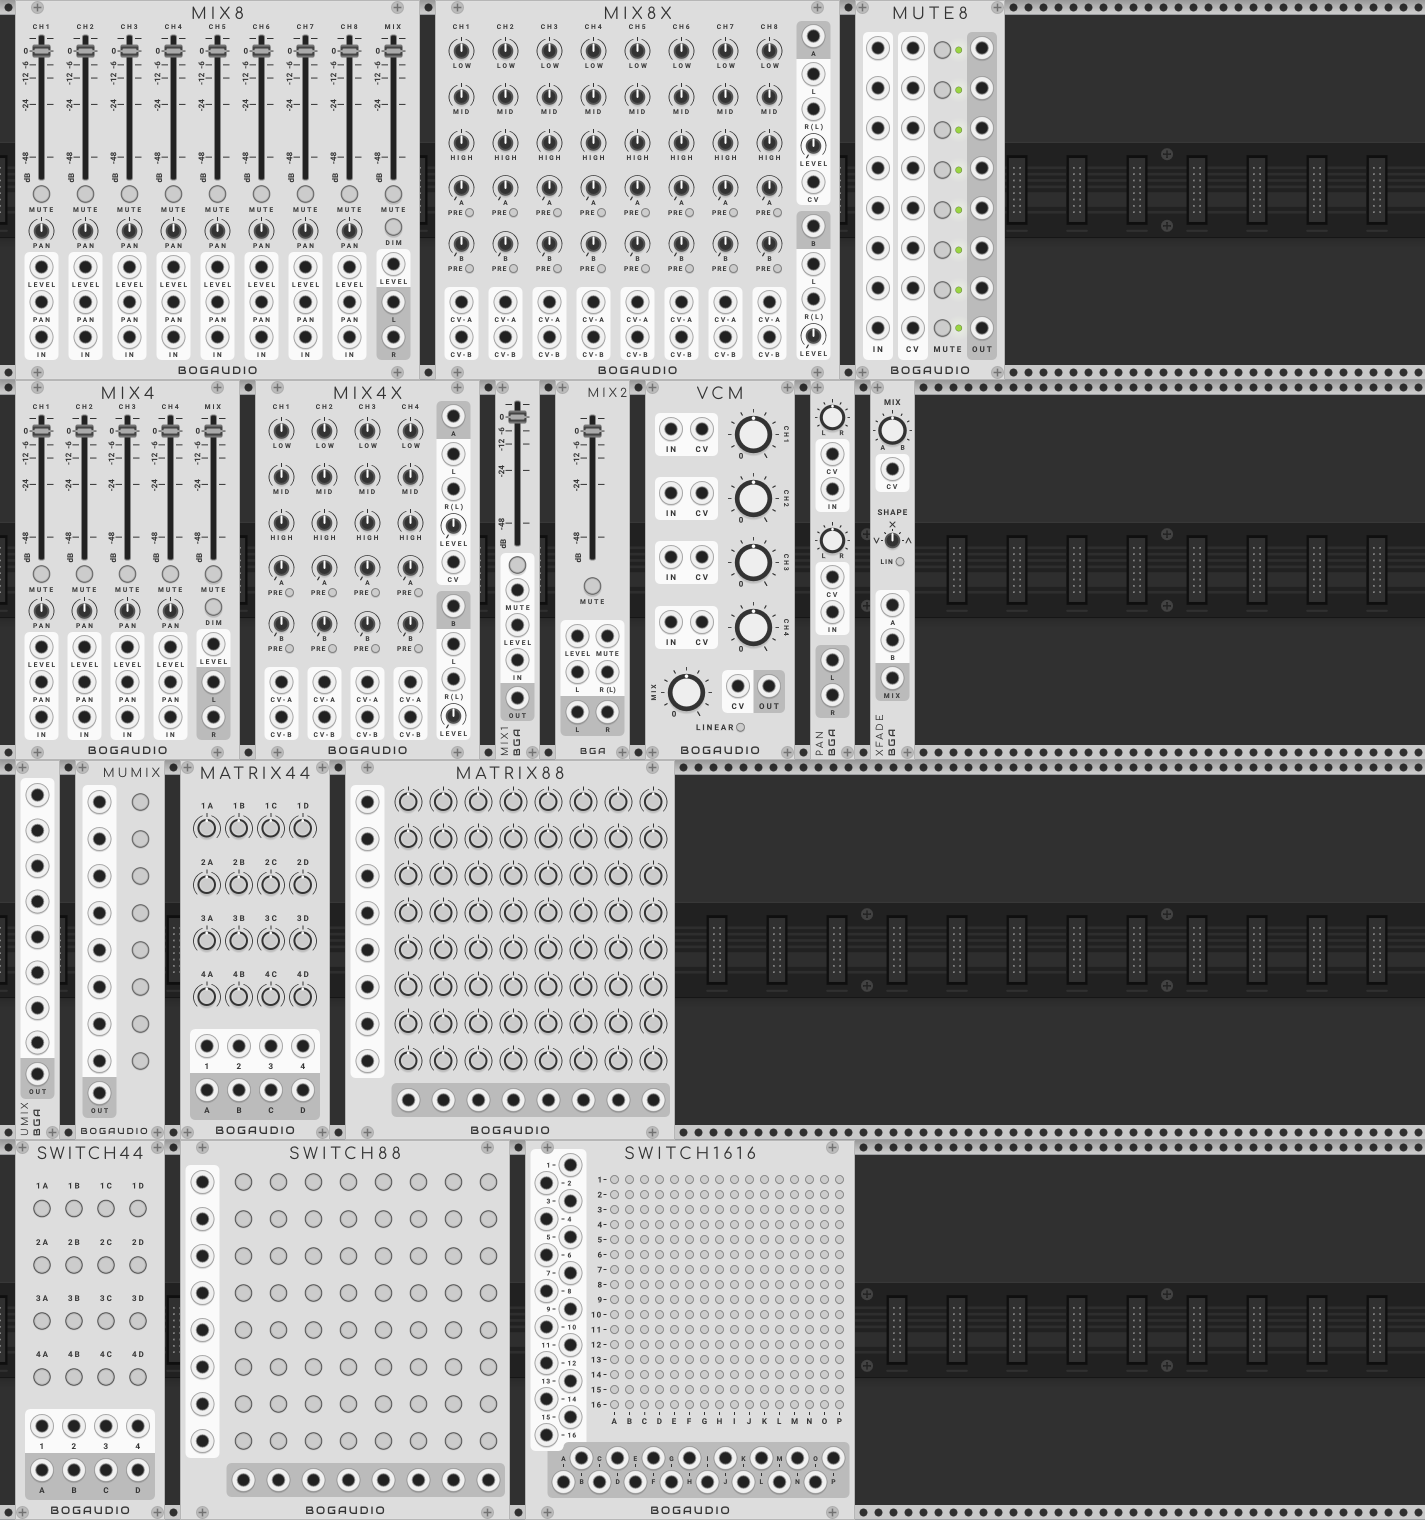
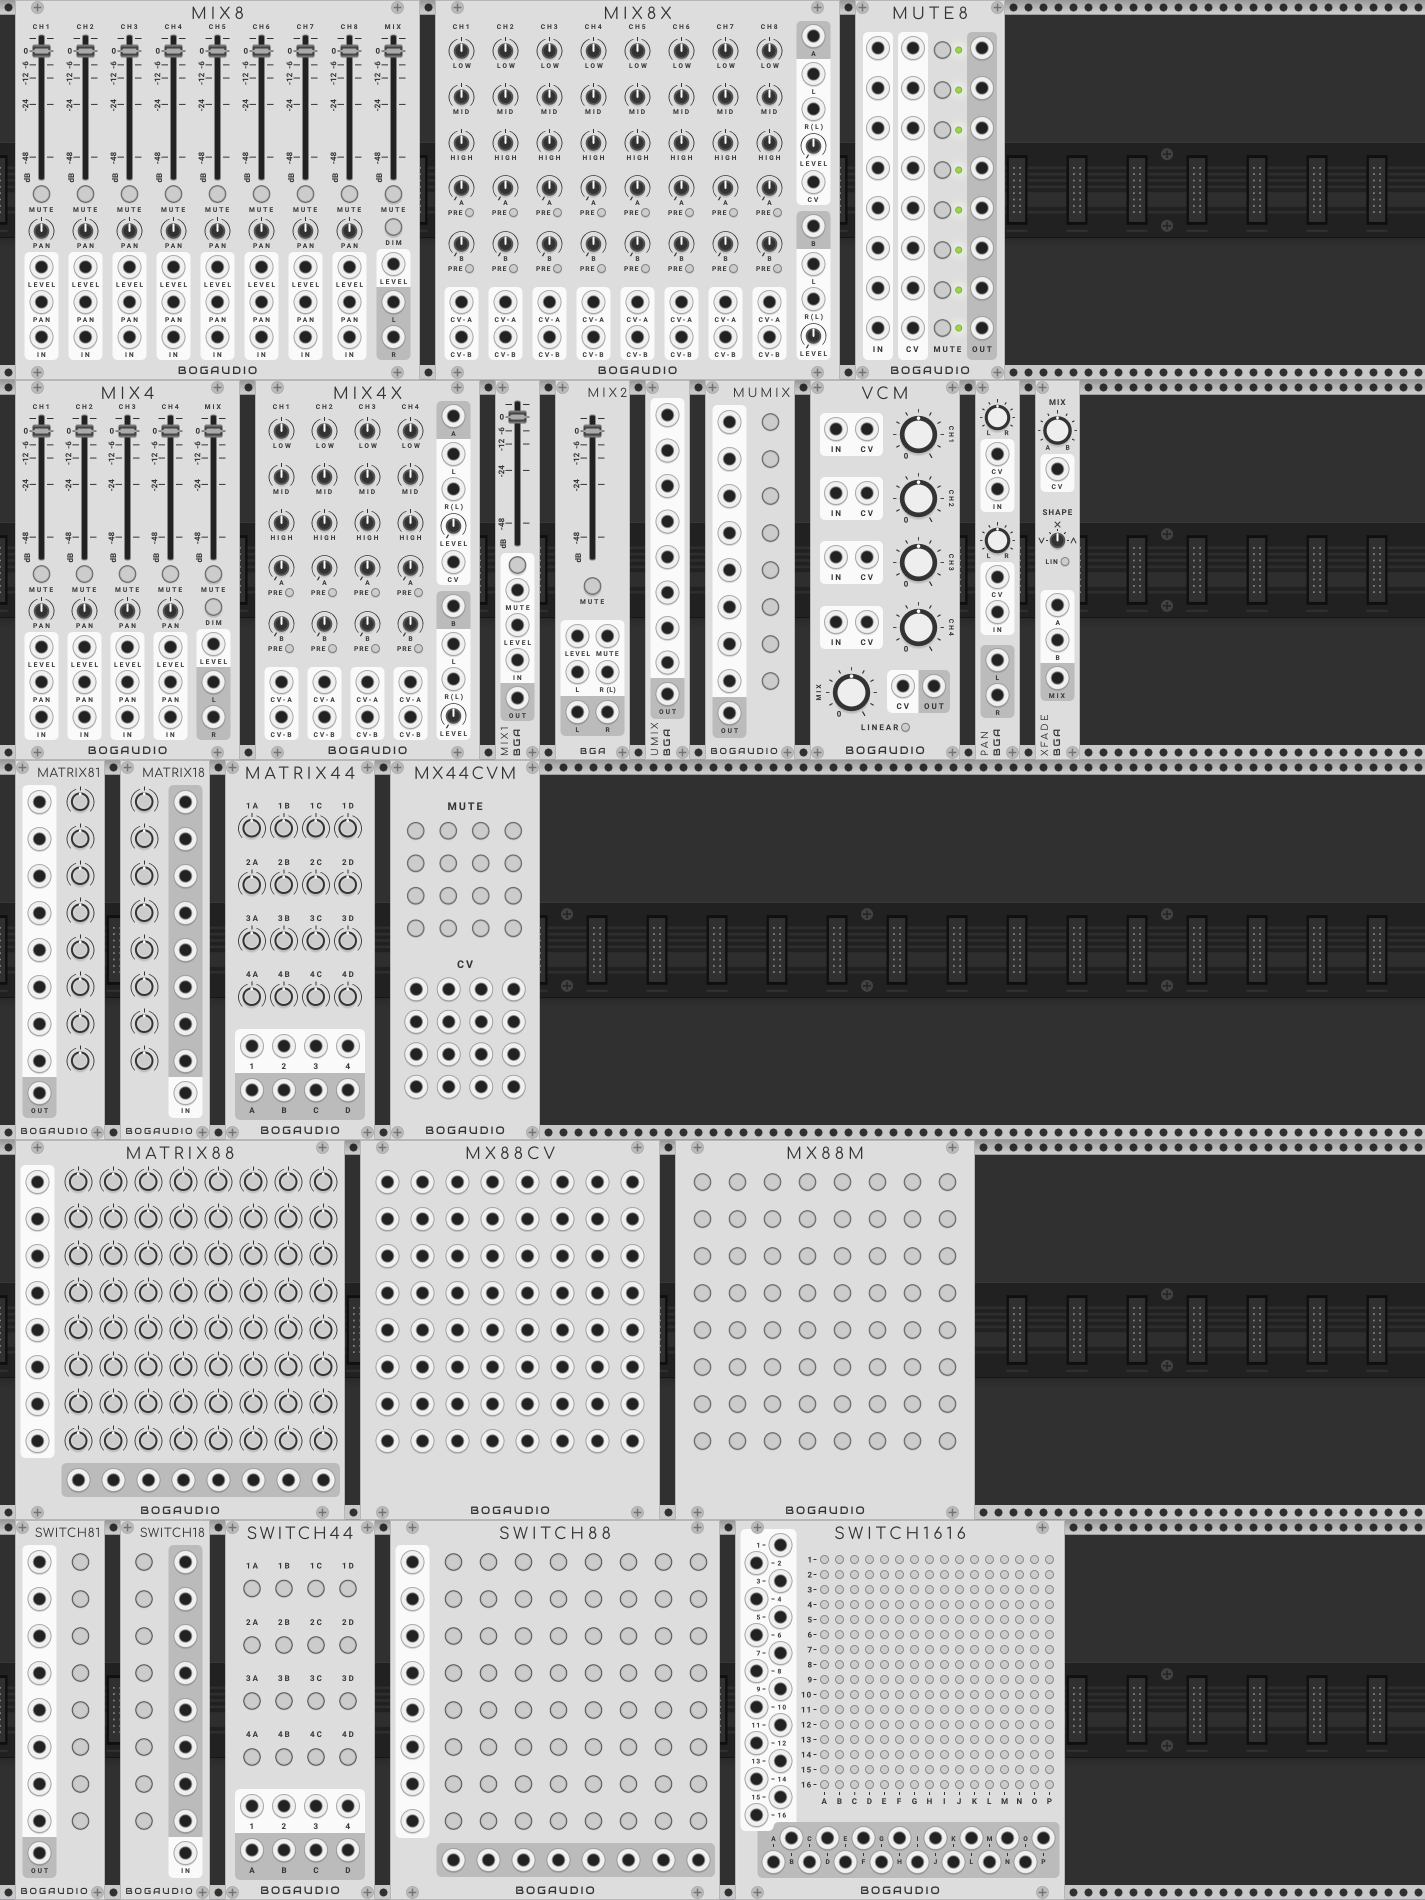
Update screenshots.

diff --git a/scripts/make_screenshots.rb b/scripts/make_screenshots.rb
@@ -9,7 +9,7 @@ screens = [
     file: 'modules1.png',
     crop: false,
     rows: [
-      ['VCO', 'LVCO', 'Sine', 'Pulse', 'XCO', 'Additator', 'FMOp'],
+      ['VCO', 'LVCO', 'Sine', 'Pulse', 'XCO', 'Additator', 'FMOp', 'Chirp'],
       ['LFO', 'LLFO', 'EightFO']
     ]
   },
@@ -17,9 +17,9 @@ screens = [
     file: 'modules2.png',
     crop: false,
     rows: [
-      ['VCF', 'LVCF', 'FFB', 'EQ', 'EQS'],
+      ['VCF', 'LVCF', 'FFB', 'EQ', 'EQS', '-', 'LPG', 'LLPG', 'MegaGate'],
       ['PEQ', 'PEQ6', 'PEQ6XF', 'PEQ14', 'PEQ14XF'],
-      ['DADSRH', 'DADSRHPlus', 'Shaper', 'ShaperPlus', 'AD', 'ASR', 'ADSR', 'Follow', 'DGate', 'RGate', 'Edge']
+      ['DADSRH', 'DADSRHPlus', 'Shaper', 'ShaperPlus', 'AD', 'ASR', 'ADSR', 'Vish', 'DGate', 'RGate', 'Edge', 'Follow']
     ]
   },
   {
@@ -27,18 +27,20 @@ screens = [
     crop: false,
     rows: [
       ['Mix8', 'Mix8x', 'Mute8'],
-      ['Mix4', 'Mix4x', 'Mix1', 'Mix2', 'VCM', 'Pan', 'XFade'],
-      ['UMix', 'Mumix', 'Matrix44', 'Matrix88'],
-      ['Switch44', 'Switch88', 'Switch1616']
+      ['Mix4', 'Mix4x', 'Mix1', 'Mix2', 'UMix', 'Mumix', 'VCM', 'Pan', 'XFade'],
+      ['Matrix81', 'Matrix18', 'Matrix44', 'Matrix44Cvm'],
+      ['Matrix88', 'Matrix88Cv', 'Matrix88M'],
+      ['Switch81', 'Switch18', 'Switch44', 'Switch88', 'Switch1616']
     ]
   },
   {
     file: 'modules4.png',
     crop: false,
     rows: [
-      ['VCA', 'VCAmp', '-', 'AMRM', 'Pressor', 'Lmtr', 'Nsgt', 'CmpDist'],
-      ['Noise', 'SampleHold', 'Walk2', 'Walk', '-', 'EightOne', 'OneEight', 'AddrSeq', 'PGMR', 'PGMRX'],
-      ['VU', 'Analyzer', 'AnalyzerXL']
+      ['VCA', 'VCAmp', 'Velo', '-', 'AMRM', 'Pressor', 'Lmtr', 'Nsgt', 'CmpDist'],
+      ['Noise', 'SampleHold', 'Walk2', 'Walk', '-', 'EightOne', 'OneEight', 'AddrSeq', 'AddrSeqX', 'PGMR', 'PGMRX'],
+      ['VU', 'Analyzer', 'AnalyzerXL'],
+      ['Ranalyzer']
     ]
   },
   {
@@ -82,7 +84,7 @@ screens = [
     file: 'oscillators2.png',
     crop: true,
     rows: [
-      ['Additator', 'FMOp']
+      ['Additator', 'FMOp', 'Chirp']
     ]
   },
   {
@@ -97,6 +99,13 @@ screens = [
     crop: true,
     rows: [
       ['VCF', 'LVCF', 'FFB', 'EQ', 'EQS']
+    ]
+  },
+  {
+    file: 'lpgs.png',
+    crop: true,
+    rows: [
+      ['LPG', 'LLPG', 'MegaGAte']
     ]
   },
   {
@@ -117,14 +126,14 @@ screens = [
     file: 'envelopes2.png',
     crop: true,
     rows: [
-      ['Shaper', 'ShaperPlus', 'AD', 'ASR', 'ADSR', 'Follow']
+      ['Shaper', 'ShaperPlus', 'AD', 'ASR', 'ADSR', 'Vish']
     ]
   },
   {
     file: 'envelopes3.png',
     crop: true,
     rows: [
-      ['DGate', 'RGate', 'Edge']
+      ['DGate', 'RGate', 'Edge', 'Follow']
     ]
   },
   {
@@ -145,28 +154,35 @@ screens = [
     file: 'mixers2.png',
     crop: true,
     rows: [
-      ['Mix1', 'Mix2', 'VCM', 'Mute8', 'Pan', 'XFade']
+      ['Mix1', 'Mix2', 'UMix', 'Mumix', 'Mute8', 'VCM', 'Pan', 'XFade']
     ]
   },
   {
     file: 'mixers3.png',
     crop: true,
     rows: [
-      ['UMix', 'Mumix', 'Matrix44', 'Matrix88']
+      ['Matrix81', 'Matrix18', 'Matrix44', 'Matrix44Cvm']
     ]
   },
   {
     file: 'mixers4.png',
     crop: true,
     rows: [
-      ['Switch44', 'Switch88', 'Switch1616']
+      ['Matrix88', 'Matrix88Cv', 'Matrix88M']
+    ]
+  },
+  {
+    file: 'mixers5.png',
+    crop: true,
+    rows: [
+      ['Switch81', 'Switch18', 'Switch44', 'Switch88', 'Switch1616']
     ]
   },
   {
     file: 'vcas.png',
     crop: true,
     rows: [
-      ['VCA', 'VCAmp']
+      ['VCA', 'VCAmp', 'Velo']
     ]
   },
   {
@@ -180,7 +196,7 @@ screens = [
     file: 'sequencers1.png',
     crop: true,
     rows: [
-      ['EightOne', 'OneEight', 'AddrSeq']
+      ['EightOne', 'OneEight', 'AddrSeq', 'AddrSeqX']
     ]
   },
   {
@@ -194,7 +210,21 @@ screens = [
     file: 'visualizers.png',
     crop: true,
     rows: [
-      ['Analyzer', 'AnalyzerXL', 'VU']
+      ['VU', 'Analyzer']
+    ]
+  },
+  {
+    file: 'visualizers2.png',
+    crop: true,
+    rows: [
+      ['AnalyzerXL']
+    ]
+  },
+  {
+    file: 'visualizers3.png',
+    crop: true,
+    rows: [
+      ['Ranalyzer']
     ]
   },
   {

diff --git a/README-prerelease.md b/README-prerelease.md
@@ -259,6 +259,8 @@ _Polyphony:_ <a href="#polyphony">Polyphonic</a>, with channels defined by the L
 
 #### <a name="lpg"></a> LPG
 
+![Filters screenshot](doc/www/lpgs.png)
+
 LPG is a "low-pass gate", where an envelope generator, low-pass filter (LPF) and amplifier (VCA) are combined into a single sound-shaping unit.  It lends itself to percussive or plucked sounds, though longer notes are possible.
 
 LPG's envelope is a version of <a href="#vish">VISH</a>, with simplified controls.  On LPG, the single RESPONSE control (taking a unipolar 0-10V CV at RESP) sets the length and basic shape of the envelope (turning up RESPONSE is equivalent to turning up each of MIN GATE, RISE time and FALL time, proportionally, on VISH).  Enabling LONG rescales the knob for longer envelopes.  The RISE and FALL knobs set the shapes (curves) of the rising and falling envelope segments, as on VISH.  The envelope is triggered whenever LPG receives a rising edge at the TRIG input.
@@ -439,14 +441,6 @@ If the TIMES 10X option is enabled, the values of the rise and fall times, and M
 
 _Polyphony:_ <a href="#polyphony">Polyphonic</a>, with channels defined by the GATE input.
 
-#### <a name="follow"></a> FOLLOW
-
-An envelope follower (a utility that converts its input to a CV proportional to the level of the input's amplitude).  The DAMP knob and CV (0-10V) affect how quickly the output responds to changes in the input -- higher DAMP values effectively slow down and smooth out the response.
-
-The GAIN knob and CV (+/-5V) can attenuate or amplify the output.  Turning the knob counter-clockwise form center will cut the output up to -36dB; turning it clockwise will amplify it up to +12dB.
-
-_Polyphony:_ <a href="#polyphony">Polyphonic</a>, with channels defined by the IN input.
-
 #### <a name="dgate"></a> DGATE
 
 ![Envelopes screenshot](doc/www/envelopes3.png)
@@ -487,6 +481,15 @@ _Polyphony:_ <a href="#polyphony">Polyphonic</a>, with channels defined by the C
 A trigger-to-gate utility, comparator and rising/falling edge detector.  RISE and FALL set voltage levels: when the input goes above RISE, the module switches to "high" state and outputs a voltage at the HIGH output.  HOLD sets a minimum time that the module stays in the high state; this can be used to avoid jitter on the output if using high-frequency inputs.  1ms trigger pulses are output at RISE and FALL on the corresponding changes (note that if you switch the module state at audio rates, these will essentially always be high).
 
 _Polyphony:_ <a href="#polyphony">Polyphonic</a>, with channels defined by the IN input.
+
+#### <a name="follow"></a> FOLLOW
+
+An envelope follower (a utility that converts its input to a CV proportional to the level of the input's amplitude).  The DAMP knob and CV (0-10V) affect how quickly the output responds to changes in the input -- higher DAMP values effectively slow down and smooth out the response.
+
+The GAIN knob and CV (+/-5V) can attenuate or amplify the output.  Turning the knob counter-clockwise form center will cut the output up to -36dB; turning it clockwise will amplify it up to +12dB.
+
+_Polyphony:_ <a href="#polyphony">Polyphonic</a>, with channels defined by the IN input.
+
 
 ### <a name="mixers"></a> Mixers, Panners and VCAs
 
@@ -550,50 +553,7 @@ A stereo version of MIX1.
 
 _Polyphony:_ <a href="#polyphony">Polyphonic</a>, with channels defined by the L input.
 
-#### <a name="vcm"></a> VCM
-
-A four-channel mixer in 10HP.
-
-Features:
-  - Four input channels and mono mix output with knob and CV control over level.  CVs expect 0-10V; when CV is in use, it is attenuated by the knob.
-  - Linear mode makes the knob/CV response linear in amplitude (this is good dialing in a CV mix); otherwise, and by default, the response is linear in decibels (and therefore exponential in amplitude).
-
-By default, the output is hard clipped at +/-12V (this is a standard in Rack).  A context menu option allows this limit to be disabled.
-
-_Polyphony:_ <a href="#polyphony">Polyphonic</a>, with polyphonic channels defined by the first IN input.
-
-#### <a name="mute8"></a> MUTE8
-
-MUTE8 provides 8 independent manual or CV-controlled mutes. Each channel is muted if its button is toggled on or if there is a positive voltage at its CV input.  Otherwise the input is passed to the output.
-
-As with MIX4 and MIX8, a right-click on a mute button will solo that channel (pass that channel through while muting all others).  Right or left click clears this.
-
-If context menu option "Latching CV triggers" is enabled, triggers on the CV inputs toggle muting on and off.
-
-_Polyphony:_ <a href="#polyphony">Polyphonic</a>, where each of the 8 channels may be independently polyphonic, as defined by the cable at the channel's input.
-
-#### <a name="pan"></a> PAN
-
-A stereo panner with dual inputs channels.  Each channel's panner may be controlled with a +/-5 volt CV; when CV is in use, it is attenuverted the corresponding knob.  The output saturates (soft clips) to +/-12 volts.
-
-_Polyphony:_ <a href="#polyphony">Polyphonic</a>, with polyphony defined by the first/top IN input.
-
-#### <a name="xfade"></a> XFADE
-
-A crossfader (or two-channel mixer, or way to patch a dry/wet knob into any signal chain).  The MIX knob sets the relative strength of inputs A and B.  MIX may be controlled with a +/-5 volt CV; when CV is in use, it is attenuverted the knob.
-
-The SHAPE knob affects the attenuation curves of the two channels as MIX changes:
-  - At the center position, SHAPE at produces a standard crossfader behavior.  A and B are attenuated by half; moving MIX to A or B brings that channel to full input level while cutting the opposite channel.  The attenuation is such that if the same signal is patched to both A and B, the same signal is produced at the output regardless of the setting of MIX.
-  - With SHAPE at the full counter-clockwise (left) position, there is no output when MIX is centered; moving MIX to A or B brings that channel to full level.
-  - With SHAPE at full clockwise (right) position, both channels are at full (unattenuated) level when MIX is centered; moving to A or B cuts the opposite channel.
-
-Linear mode (the LIN button) makes the level attenuation response of MIX linear in amplitude (useful when processing CV); otherwise and by default the response is linear in decibels (and therefore exponential in amplitude).
-
-_Polyphony:_ <a href="#polyphony">Polyphonic</a>, with polyphony defined by the A input.
-
 #### <a name="umix"></a> UMIX
-
-![Mixers screenshot](doc/www/mixers3.png)
 
 A 3HP unity mixer, usable with audio or CV (e.g. to combine triggers).  Up to 8 inputs are summed to the output.  The output is limited to +/-12V (with clipping modes as below).
 
@@ -614,7 +574,50 @@ See also <a href="switch81">SWITCH81</a>, which is similar to this, with options
 
 _Polyphony:_ same as UMIX.
 
+#### <a name="mute8"></a> MUTE8
+
+MUTE8 provides 8 independent manual or CV-controlled mutes. Each channel is muted if its button is toggled on or if there is a positive voltage at its CV input.  Otherwise the input is passed to the output.
+
+As with MIX4 and MIX8, a right-click on a mute button will solo that channel (pass that channel through while muting all others).  Right or left click clears this.
+
+If context menu option "Latching CV triggers" is enabled, triggers on the CV inputs toggle muting on and off.
+
+_Polyphony:_ <a href="#polyphony">Polyphonic</a>, where each of the 8 channels may be independently polyphonic, as defined by the cable at the channel's input.
+
+#### <a name="vcm"></a> VCM
+
+A four-channel mixer in 10HP.
+
+Features:
+  - Four input channels and mono mix output with knob and CV control over level.  CVs expect 0-10V; when CV is in use, it is attenuated by the knob.
+  - Linear mode makes the knob/CV response linear in amplitude (this is good dialing in a CV mix); otherwise, and by default, the response is linear in decibels (and therefore exponential in amplitude).
+
+By default, the output is hard clipped at +/-12V (this is a standard in Rack).  A context menu option allows this limit to be disabled.
+
+_Polyphony:_ <a href="#polyphony">Polyphonic</a>, with polyphonic channels defined by the first IN input.
+
+#### <a name="pan"></a> PAN
+
+A stereo panner with dual inputs channels.  Each channel's panner may be controlled with a +/-5 volt CV; when CV is in use, it is attenuverted the corresponding knob.  The output saturates (soft clips) to +/-12 volts.
+
+_Polyphony:_ <a href="#polyphony">Polyphonic</a>, with polyphony defined by the first/top IN input.
+
+#### <a name="xfade"></a> XFADE
+
+A crossfader (or two-channel mixer, or way to patch a dry/wet knob into any signal chain).  The MIX knob sets the relative strength of inputs A and B.  MIX may be controlled with a +/-5 volt CV; when CV is in use, it is attenuverted the knob.
+
+The SHAPE knob affects the attenuation curves of the two channels as MIX changes:
+  - At the center position, SHAPE at produces a standard crossfader behavior.  A and B are attenuated by half; moving MIX to A or B brings that channel to full input level while cutting the opposite channel.  The attenuation is such that if the same signal is patched to both A and B, the same signal is produced at the output regardless of the setting of MIX.
+  - With SHAPE at the full counter-clockwise (left) position, there is no output when MIX is centered; moving MIX to A or B brings that channel to full level.
+  - With SHAPE at full clockwise (right) position, both channels are at full (unattenuated) level when MIX is centered; moving to A or B cuts the opposite channel.
+
+Linear mode (the LIN button) makes the level attenuation response of MIX linear in amplitude (useful when processing CV); otherwise and by default the response is linear in decibels (and therefore exponential in amplitude).
+
+_Polyphony:_ <a href="#polyphony">Polyphonic</a>, with polyphony defined by the A input.
+
 #### <a name="matrix81"></a> MATRIX81
+
+![Mixers screenshot](doc/www/mixers3.png)
 
 An eight input, one output version of <a href="#matrix44">MATRIX44</a>, below.
 
@@ -652,6 +655,8 @@ MX44CVM must be positioned to the right of, and adjacent to, the MATRIX44 module
 
 #### <a name="matrix88"></a> MATRIX88
 
+![Mixers screenshot](doc/www/mixers4.png)
+
 An 8x8 version of MATRIX44.  It is expanable with <a href="matrix88cv">MX88CV</a> and <a href="matrix88m">MX88M</a>.
 
 _Polyphony:_ <a href="#polyphony">Polyphonic</a>, with polyphonic channels defined by the first/topmost input.
@@ -672,7 +677,7 @@ MX88M must be positioned to the right of, and adjacent to, the MATRIX88 module i
 
 #### <a name="switch81"></a> SWITCH81
 
-![Mixers screenshot](doc/www/mixers4.png)
+![Mixers screenshot](doc/www/mixers5.png)
 
 An eight input, one output version of <a href="#switch44">SWITCH44</a>, below.
 
@@ -978,6 +983,12 @@ Each PGMRX in a chain must be positioned to the right of, and ajacent to, the pr
 
 ![Analyzer screenshot](doc/www/visualizers.png)
 
+#### <a name="vu"></a> VU
+
+A stereo signal level visualizer/meter.  The L channel is sent to both displays if if nothing is patched to R.  Inputs to L and R are copied to the L and R outputs.
+
+_Polyphony:_ Monophonic, but if an input is polyphonic, its channels are summed, and summed value is used to compute the level displayed (independently for the left and right inputs).
+
 #### <a name="analyzer"></a> ANALYZER
 
 A four-channel spectrum analyzer.
@@ -1002,6 +1013,8 @@ _Polyphony:_ Monophonic, with two exceptions:
 
 #### <a name="analyzerxl"></a> ANALYZER-XL
 
+![Analyzer screenshot](doc/www/visualizers2.png)
+
 An eight-channel, 42HP version of ANALYZER, with edge-to-edge-screen design.  Options corresponding to ANALYZER's panel controls are available on the context (right-click) menu.  An extra "Quality" setting, "Ultra+" is available; this uses an FFT size of 16384 (or 32768 if Rack's sample rate is 96khz or higher).
 
 **Note:** Most of the surface of ANALYZER-XL is its display, and clicking the mouse on the display will trigger the freeze function described in the notes on <a href="analyzer">ANALYZER</a>.  This may be confusing if you're trying to click and drag on the module to move it.  To move the module, click near the left edge, for example on the module's name.
@@ -1009,6 +1022,8 @@ An eight-channel, 42HP version of ANALYZER, with edge-to-edge-screen design.  Op
 _Polyphony:_ Monophonic, but if an input is polyphonic, its channels are summed, and the spectra of the summed signal is displayed.
 
 #### <a name="ranalyzer"></a> RANALYZER
+
+![Analyzer screenshot](doc/www/visualizers3.png)
 
 RANALYZER is a frequency response analyzer: it passes a test signal to another module, expecting the output of that module to be patched back, and then displays the frequency spectrum of the response relative to the test signal.
 
@@ -1033,12 +1048,6 @@ The display's frequency and amplitude ranges and plot types (logarithmic vs line
 **Note:** Most of the surface of RANALYZER is its display, and clicking the mouse on the display will trigger the freeze function described in the notes on <a href="analyzer">ANALYZER</a>.  This may be confusing if you're trying to click and drag on the module to move it.  To move the module, click near the left edge, for example on the module's name.
 
 _Polyphony:_ Monophonic.
-
-#### <a name="vu"></a> VU
-
-A stereo signal level visualizer/meter.  The L channel is sent to both displays if if nothing is patched to R.  Inputs to L and R are copied to the L and R outputs.
-
-_Polyphony:_ Monophonic, but if an input is polyphonic, its channels are summed, and summed value is used to compute the level displayed (independently for the left and right inputs).
 
 
 ### <a name="poly"></a> Polyphony Utilities
